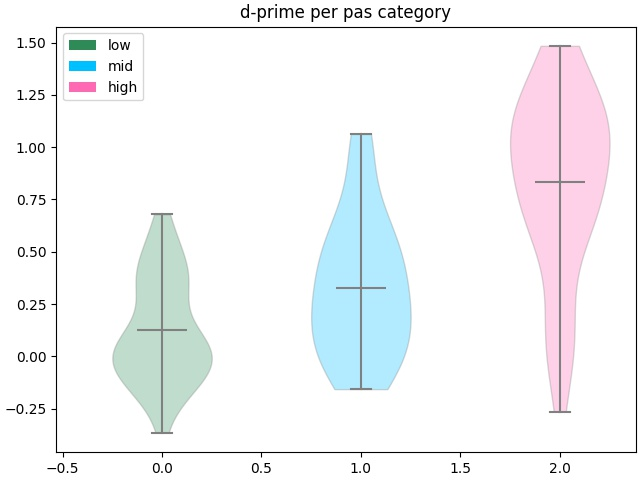
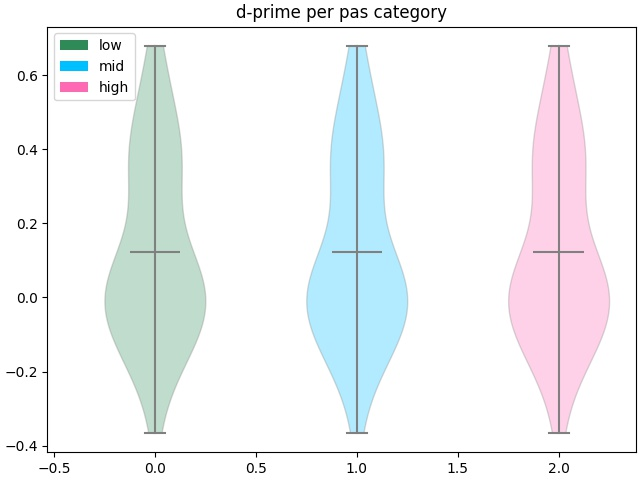
simplified d-prime code

diff --git a/01_plot_events_analyses.py b/01_plot_events_analyses.py
@@ -225,42 +225,32 @@ for folder in [
     highs = list()
 
     d_primes = {s : list() for s in sub_data.keys()}
+    ### smoothing d-primes following Hutus 1995
+    ### 1 is added to each cell before division
+    ### to avoid having 0s
 
     for s in sub_data.keys():
-        current_corr = (len([1 for s_p, s_a, req in zip(sub_data[s]['PAS_score'], sub_data[s]['accuracy'], sub_data[s]['required_answer']) if s_p=='1' and s_a=='correct' and req=='YES'])+1.) / len([1 for req in sub_data[s]['required_answer'] if req=='YES'])
-        current_wrong = (len([1 for s_p, s_a, req in zip(sub_data[s]['PAS_score'], sub_data[s]['accuracy'], sub_data[s]['required_answer']) if s_p=='1' and s_a=='wrong' and req=='NO'])+1.) / len([1 for req in sub_data[s]['required_answer'] if req=='NO'])
-        z_hit = stats.norm.ppf(current_corr)
-        z_fa = stats.norm.ppf(current_wrong)
-        try:
+        for _, pas_val in enumerate(['1', '2', '3']):
+            ### hits
+            hits = len([1 for s_p, s_a, req in zip(sub_data[s]['PAS_score'], sub_data[s]['accuracy'], sub_data[s]['required_answer']) if s_p=='1' and s_a=='correct' and req=='YES'])
+            total_yes = len([1 for req in sub_data[s]['required_answer'] if req=='YES'])
+            hit_rate = (hits + 1) / total_yes
+            z_hit = stats.norm.ppf(hit_rate)
+            ### false alarms
+            false_alarms = len([1 for s_p, s_a, req in zip(sub_data[s]['PAS_score'], sub_data[s]['accuracy'], sub_data[s]['required_answer']) if s_p=='1' and s_a=='wrong' and req=='NO'])
+            total_no = len([1 for req in sub_data[s]['required_answer'] if req=='NO'])
+            false_alarms_rate = (false_alarms + 1) / total_no
+            z_fa = stats.norm.ppf(false_alarms_rate)
+            ### d-prime
             d_prime = z_hit - z_fa
-        except FloatingPointError:
-            d_prime = numpy.nan
-        d_primes[s].append(d_prime)
-        if str(d_prime) not in ['inf', '-inf', 'nan']:
-            lows.append(d_prime)
-        ### mid
-        current_corr = len([1 for s_p, s_a, req in zip(sub_data[s]['PAS_score'], sub_data[s]['accuracy'], sub_data[s]['required_answer']) if s_p=='2' and s_a=='correct' and req=='YES']) / len([1 for req in sub_data[s]['required_answer'] if req=='YES'])
-        current_wrong = len([1 for s_p, s_a, req in zip(sub_data[s]['PAS_score'], sub_data[s]['accuracy'], sub_data[s]['required_answer']) if s_p=='2' and s_a=='wrong' and req=='NO']) / len([1 for req in sub_data[s]['required_answer'] if req=='NO'])
-        z_hit = stats.norm.ppf(current_corr)
-        z_fa = stats.norm.ppf(current_wrong)
-        try:
-            d_prime = z_hit - z_fa
-        except FloatingPointError:
-            d_prime = numpy.nan
-        d_primes[s].append(d_prime)
-        if str(d_prime) not in ['inf', '-inf', 'nan']:
-            mids.append(d_prime)
-        ### tops
-        current_corr = (len([1 for s_p, s_a, req in zip(sub_data[s]['PAS_score'], sub_data[s]['accuracy'], sub_data[s]['required_answer']) if s_p=='3' and s_a=='correct' and req=='YES'])+1.) / len([1 for req in sub_data[s]['required_answer'] if req=='YES'])
-        current_wrong = (len([1 for s_p, s_a, req in zip(sub_data[s]['PAS_score'], sub_data[s]['accuracy'], sub_data[s]['required_answer']) if s_p=='3' and s_a=='wrong' and req=='NO'])+1.) / len([1 for req in sub_data[s]['required_answer'] if req=='NO'])
-        z_hit = stats.norm.ppf(current_corr)
-        z_fa = stats.norm.ppf(current_wrong)
-        try:
-            d_prime = z_hit - z_fa
-        except FloatingPointError:
-            d_prime = numpy.nan
-        d_primes[s].append(d_prime)
-        highs.append(d_prime)
+            assert str(d_prime) not in ['inf', '-inf', 'nan']
+            d_primes[s].append(d_prime)
+            if _ == 0:
+                lows.append(d_prime)
+            elif _ == 1:
+                mids.append(d_prime)
+            elif _ == 2:
+                highs.append(d_prime)
 
     fig, ax = pyplot.subplots(constrained_layout=True)
     for x, y, label in [(0, lows, 'low'), (1, mids, 'mid'), (2, highs, 'high')]:

diff --git a/05_searchlight.py b/05_searchlight.py
@@ -205,14 +205,19 @@ norms, vectors, similarities, distances = read_norms_vectors_sims_dists()
 ### 20mm vs 30mm
 ### 75ms vs 100ms vs 125ms vs 150ms
 
-for subject_correction in ['d0.25', 'd0.5', 'all_subjects']:
+for subject_correction in [
+                           'd0.25', 
+                           'd0.5', 
+                           'd0.75', 
+                           'all_subjects',
+                           ]:
     for regression_model in [
                              #'ridge', 
                              'rsa',
                              ]:
         for temp_cluster in [
                              'temporal_cluster', 
-                             #'isolated_time_points',
+                             'isolated_time_points',
                              ]:
             for min_val in [
                             1,
